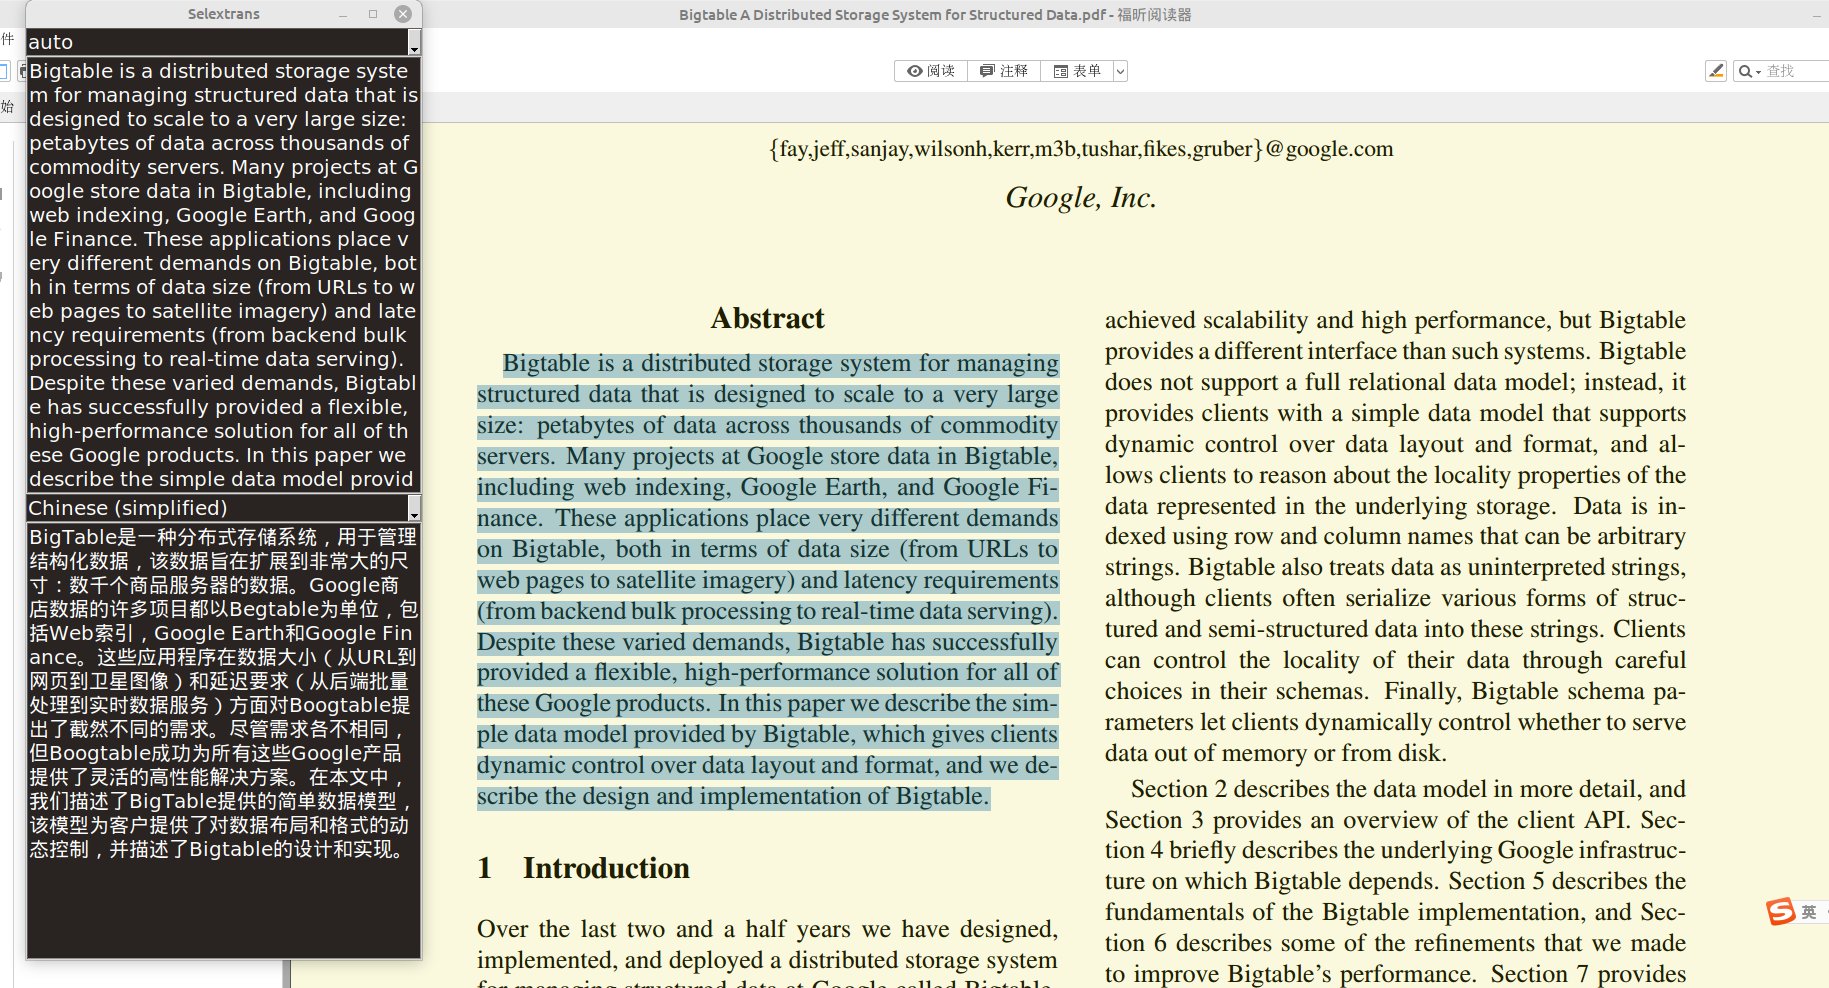
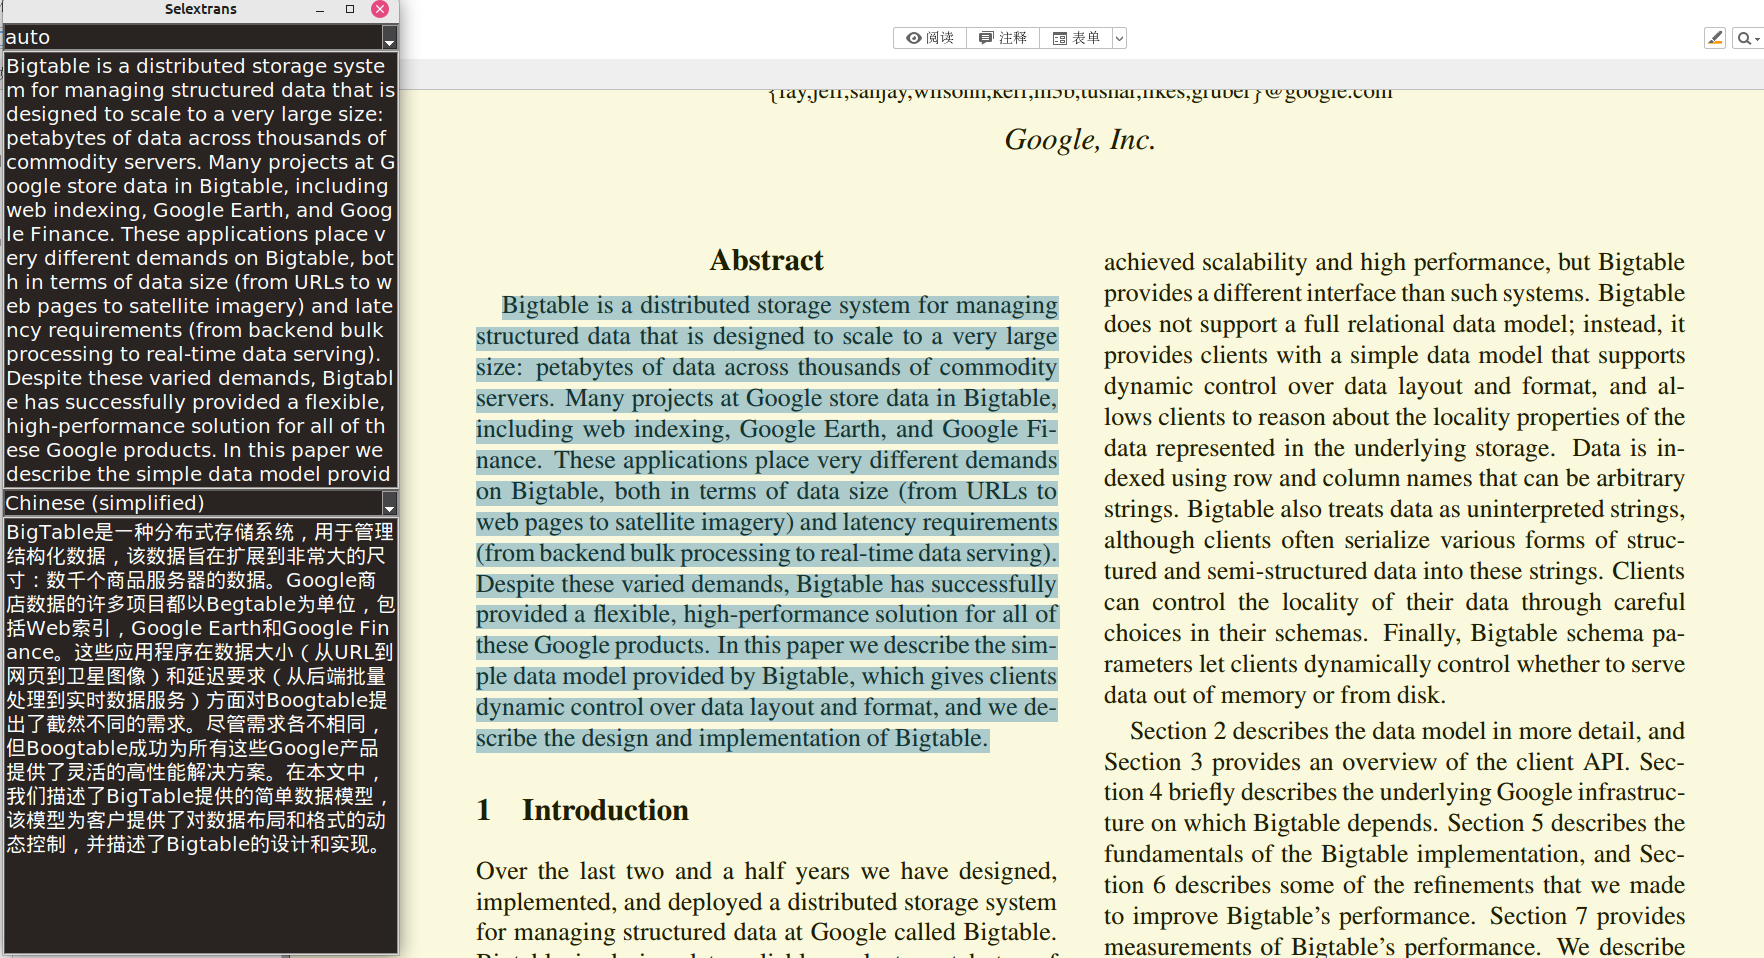
Bug fix for Windows

diff --git a/selextrans/trans.py b/selextrans/trans.py
@@ -82,6 +82,7 @@ except Exception as e:
     messagebox.showerror(str(e))
     raise e
 
+
 def PrintSceenToClipboard():
     '''
     Using tools for printscreen
@@ -98,7 +99,8 @@ def PrintSceenToClipboard():
         return 1
     elif system_name == 'Darwin':  # Macos
         try:
-            subprocess.run(['screencapture', '-i', '-s'], check=True)
+            subprocess.run(['screencapture', '-i', '-s', '-c'],
+                           check=True)  # brew install pngpaste
             return 1
         except subprocess.CalledProcessError:
             return 0
@@ -326,13 +328,15 @@ class OpenaiAPITranslator:
 
     def TranslateWrapper(self, tk_text, src_text, src_lang_index, dest_lang_index):
         try:
-            response = self.TranslateWithChatCompletion(src_text, '', languages[dest_lang_index])
+            response = self.TranslateWithChatCompletion(
+                src_text, '', languages[dest_lang_index])
             tk_text.delete('1.0', tk.END)
             tk_text.insert(tk.END, '[Generating...]\n')
             for chunck in response:
-                content = OpenaiAPITranslator.GetContentWithChatCompletionResponseChunk(chunck)
+                content = OpenaiAPITranslator.GetContentWithChatCompletionResponseChunk(
+                    chunck)
                 tk_text.insert(tk.END, content)
-            tk_text.delete('1.0', '2.0') # 
+            tk_text.delete('1.0', '2.0')
         except Exception as e:
             tk_text.delete("1.0", tk.END)
             tk_text.insert(tk.END, '[Error: ' + str(e) + ']')
@@ -359,7 +363,8 @@ class Gui:
         self.root_ = tk.Tk()
         self.root_.title('Selextrans')
         self.root_.attributes("-topmost", True)
-        self.root_.iconphoto(True, tk.PhotoImage(file=AbsolutePath(configs['icon'])))
+        self.root_.iconphoto(True, tk.PhotoImage(
+            file=AbsolutePath(configs['icon'])))
 
         global_font = tkfont.Font(size=15)
         self.root_.option_add('*Font', global_font)
@@ -382,10 +387,24 @@ class Gui:
                 background='#292421', foreground='white', insertbackground='white')
             # self.record_btn_.configure(
             #     background='#292421', foreground='white', activebackground='white', activeforeground='black')
-            # still have some problems of the TCombobox color
-            ttk.Style().configure('TCombobox', fieldbackground='#292421', foreground='white')
-            self.root_.option_add('*TCombobox*Foreground', 'white')
-            self.root_.option_add('*TCombobox*Background', '#292421')
+
+            # foreground: text, fieldbackground: background area, background: drop-down box, arrowcolor: arrow color
+            # ttk.Style().configure('TCombobox', foreground='white', fieldbackground='#292421', background='#292421', arrowcolor='white') # can work on Linux but not on Windows
+            style = ttk.Style()
+            style.theme_create('combobox_style', settings={
+                'TCombobox': {'configure': {
+                    'foreground': 'white',
+                    'fieldbackground': '#292421',
+                    'background': '#464547',
+                    'arrowcolor': 'white'
+                }
+                }
+            })
+            style.theme_use('combobox_style')
+
+            # for drop-down list
+            self.root_.option_add('*TCombobox*Listbox*Foreground', 'white')
+            self.root_.option_add('*TCombobox*Listbox*Background', '#292421')
 
         self.src_lang_combox_.grid(row=0, column=0, sticky=tk.EW)
         self.inputText_.grid(row=1, column=0, sticky=tk.NSEW)
@@ -406,13 +425,13 @@ class Gui:
 
         self.kbController_ = KeyController()
 
-        try: 
+        try:
             self.listener_ = KeyListener({settings['text_translate_shortcut_key']: self.RegisterTextTranslate,
-                                        settings['screenshot_translate_shortcut_key']: self.RegisterScreenshotTranslate})
+                                          settings['screenshot_translate_shortcut_key']: self.RegisterScreenshotTranslate})
         except Exception as e:
             messagebox.showerror(str(e))
             raise e
-            
+
         self.listener_.start()
         # self.listener_.join()
 

diff --git a/README.md b/README.md
@@ -25,11 +25,10 @@ sudo apt install xclip tesseract-ocr
 * tesseract ocr engine (**no data file need to be downloaded**. They are all in `data/tessdata/`)
   Check the website [Introduction | tessdoc](https://tesseract-ocr.github.io/tessdoc/Installation.html) and install the tesseract. Do not forget to set the **environment variable**.
 
-### Requirements (Python external lib)
+### Requirements
 
 * requests
 * pyperclip
-* tkinter
 * pynput
 * langid
 * googletrans>=4.0.0rc1
@@ -42,7 +41,7 @@ sudo apt install xclip tesseract-ocr
 
 ```shell
 # For linux (Ubuntu)
-sudo apt install python3-tk
+sudo apt install python3-tk # For tkinter
 pip install -r requirements_Linux.txt --upgrade
 ```
 
@@ -105,7 +104,7 @@ All Settings is in `data/settings.json`. Please **restart** the app if you chang
 
 `"mode"` can be set as `"dark"` or `"light"`.
 
-`"xx_shortcut_key"` specify shortcut key combinations for some functions. Key combinations are sequences of key identifiers separated by `"+"`. Key identifiers are either single characters representing a keyboard key, such as `"a"`, or special key names identified by names enclosed by brackets, such as `"<ctrl>"`. **You can set your own shortcut key combinations for convenience.**"
+`"xx_shortcut_key"` specify shortcut key combinations for some functions. Key combinations are sequences of key identifiers separated by `"+"`. Key identifiers are either single characters representing a keyboard key, such as `"a"`, or special key names identified by names enclosed by brackets, such as `"<ctrl>"`. **You can set your own shortcut key combinations for convenience.**
 
 `"copy_key"` is used for text translate to copy selected text to this app. The default setting `"<ctrl>+c"` can work for most softwares, except some softwares, e.g. command line programs. If you really want to use this app with specifc softwares, set `"copy_key"` as you want.
 
